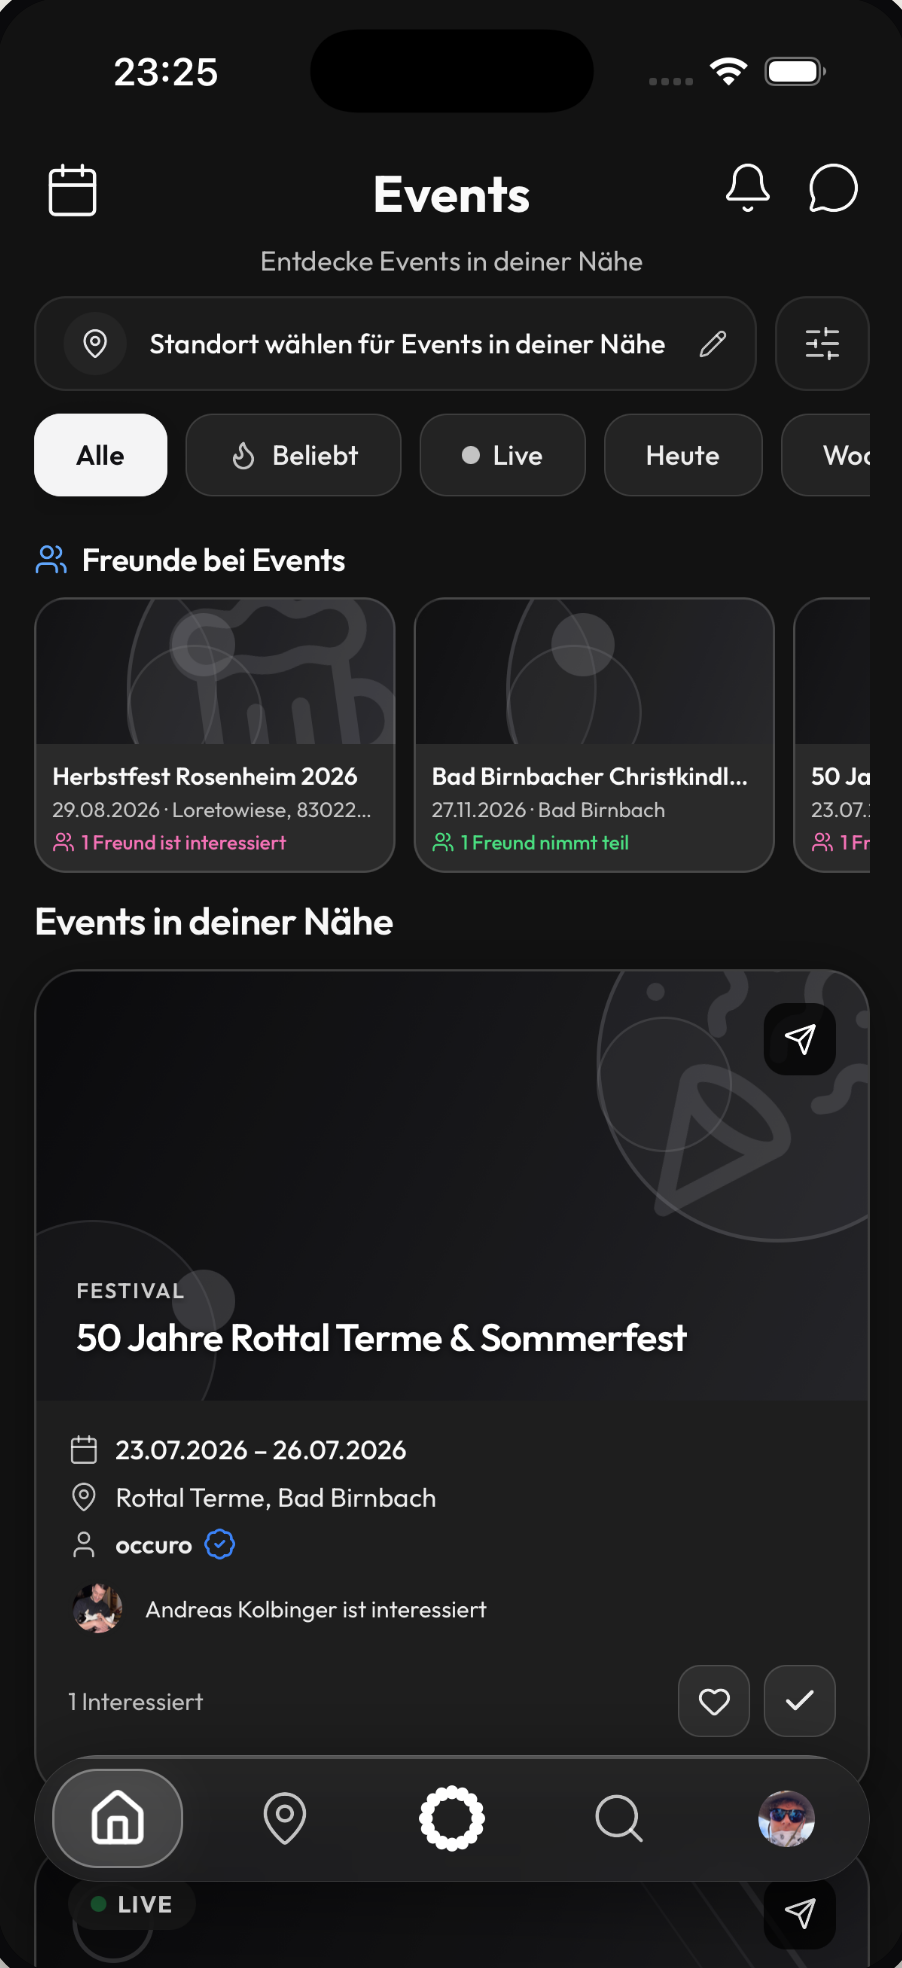
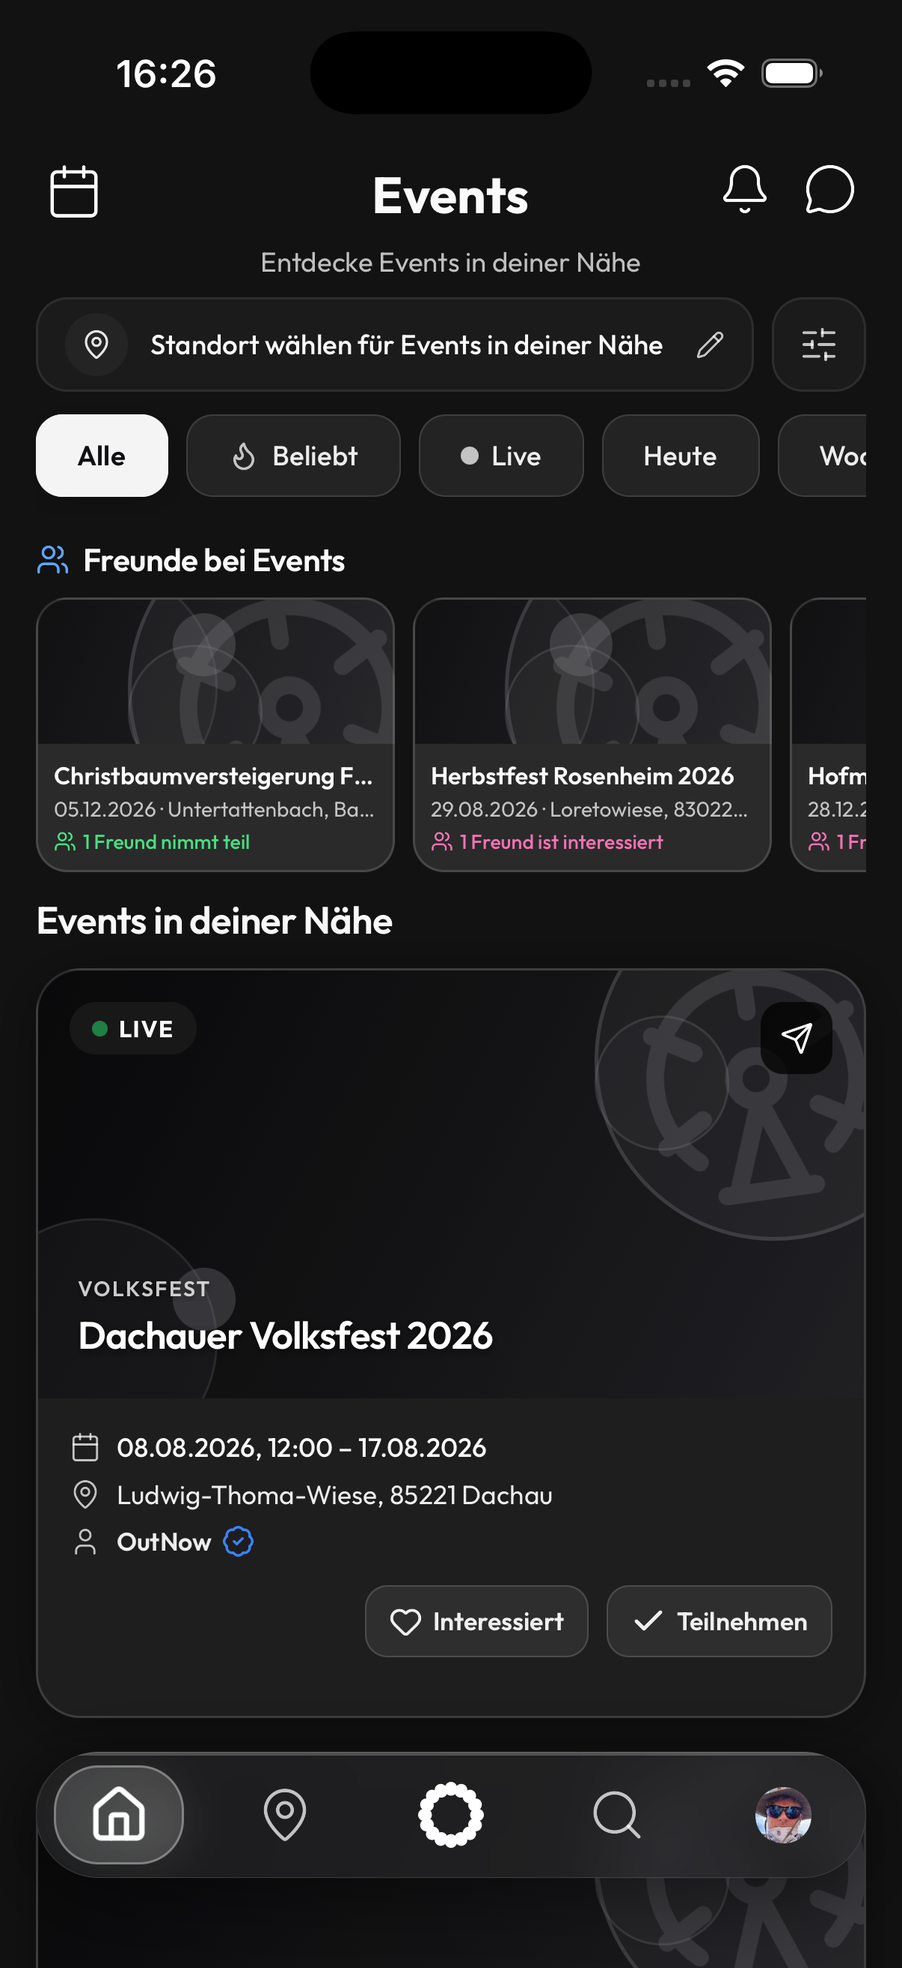
Neue Funktionen beschreiben und drei falsche Angaben korrigieren
Screenshots ausgetauscht — die alten stammten vom 09.08. und zeigten einen
Stand, den es nicht mehr gibt.

NEU BESCHRIEBEN: Live-Events auf der Karte und Freunde vor Ort, jeweils mit
eigenem Bildschirm. Dazu in den vorhandenen Kacheln ergaenzt, was ein
Abgleich mit dem App-Code als tatsaechlich vorhanden bestaetigt hat:
Veranstaltern folgen samt Benachrichtigung, gezieltes Antworten und Herz im
Chat, Galerie mit bis zu zehn Bildern, Event-Feed fuer Ankuendigungen.

Bewusst NICHT aufgenommen, obwohl der Code danach aussieht: Ticket-Scanner
(canScanTickets ist ein fest verdrahtetes false), Ticketpruefung durch
Veranstalter (vollstaendig ausprogrammiert, aber nirgends eingebunden), freies
Hochladen fremder Tickets (geht nur zu einem Event, das in OutNow existiert)
und Kommentare zum Event-Feed (Tabelle und Uebersetzungen vorhanden, im Code
nie verwendet). Eine Werbeaussage, die die App nicht einloest, waere
schlimmer als eine fehlende.

Entfernt: "sofort sichtbar fuer tausende Nutzer" — vor dem Start testen nur
Freunde.

ZWEI FEHLER IN DER SEITE selbst:

React-Key der Zeitleiste war t.month. Solange jeder Monat einmal vorkam, fiel
das nicht auf; der neue August-Eintrag waere mit dem vorhandenen kollidiert.
Jetzt Jahr, Monat und Titel.

Die Veranstalter-Kacheln stehen in einem Raster aus zwei bzw. drei Spalten.
Ein siebter Eintrag haette die letzte Reihe abbrechen lassen, deshalb ist der
Event-Feed in "Direkter Draht" eingearbeitet statt angehaengt.
[…]

diff --git a/src/app/page.tsx b/src/app/page.tsx
@@ -25,20 +25,20 @@ const fadeUp = {
    ═══════════════════════════════════════════════════════════ */
 
 const userFeatures: { icon: LucideIcon; title: string; desc: string }[] = [
-  { icon: Search, title: 'Entdecken', desc: 'Events in deiner Nähe — per Feed, Karte oder Suche. Filtere nach Kategorie, Genre und Zeitraum.' },
-  { icon: Users, title: 'Verbinden', desc: 'Sieh welche Freunde hingehen. Teile Events und erlebe sie zusammen.' },
+  { icon: Search, title: 'Entdecken', desc: 'Events in deiner Nähe — per Feed, Karte oder Suche. Folge Veranstaltern und erfahre, wenn sie etwas Neues planen.' },
+  { icon: Users, title: 'Verbinden', desc: 'Sieh welche Freunde hingehen — und wer gerade vor Ort ist, wenn sie ihren Standort teilen.' },
   { icon: CalendarPlus, title: 'Teilnehmen', desc: 'Interesse melden, bestätigen, Tickets sichern — alles mit einem Tap.' },
-  { icon: MessageCircle, title: 'Chatten', desc: 'Event-Chats und Direktnachrichten. Tausche dich aus, bevor und während des Events.' },
+  { icon: MessageCircle, title: 'Chatten', desc: 'Event-Chats und Direktnachrichten. Antworte gezielt auf einzelne Nachrichten, ein Doppeltipp setzt ein Herz.' },
   { icon: Ticket, title: 'Wallet & Kalender', desc: 'Digitale Tickets in deiner Wallet. Kalenderansicht mit Erinnerungen für alle Events.' },
   { icon: Gift, title: 'Gewinnspiele', desc: 'Nimm an Event-Gewinnspielen teil und gewinne Preise — direkt in der App.' },
 ];
 
 const orgFeatures: { icon: LucideIcon; title: string; desc: string }[] = [
-  { icon: Zap, title: 'In 60 Sekunden online', desc: 'Event erstellen war noch nie so schnell. Titel, Ort, Datum — sofort sichtbar für tausende Nutzer.' },
+  { icon: Zap, title: 'In 60 Sekunden online', desc: 'Titel, Ort, Datum — mehr braucht es nicht. Dazu ein Banner und bis zu zehn weitere Bilder als Galerie.' },
   { icon: TrendingUp, title: 'Live-Dashboard', desc: 'Follower, Interessenten, Bestätigungen — sieh in Echtzeit, wie dein Event performt.' },
   { icon: Megaphone, title: 'Organische Reichweite', desc: 'Jeder Interessent teilt dein Event im Feed seiner Freunde. Reichweite ohne Werbebudget.' },
   { icon: Gift, title: 'Gewinnspiele', desc: 'Aktiviere Gewinnspiele für dein Event und steigere die Teilnahme. Automatische Ziehung inklusive.' },
-  { icon: MessageCircle, title: 'Direkter Draht', desc: 'Event-Chat für Ankündigungen und Fragen. Erreiche deine Teilnehmer direkt — ohne Social Media.' },
+  { icon: MessageCircle, title: 'Direkter Draht', desc: 'Event-Chat für Fragen, Event-Feed für Ankündigungen als Text, Foto oder Link. Ohne Umweg über Social Media.' },
   { icon: ShieldCheck, title: 'Verifiziertes Profil', desc: 'Zeig deiner Community, dass du geprüft bist. Mehr Vertrauen = mehr Teilnehmer.' },
 ];
 
@@ -46,6 +46,8 @@ const userScreens = [
   { src: '/app-screenshots/events.png', title: 'Event Feed', desc: 'Events in deiner Nähe im Feed — mit Filtern für Beliebt, Live, Heute und Wochenende. Oben siehst du direkt, bei welchen Events deine Freunde dabei sind.' },
   { src: '/app-screenshots/event-detail.png', title: 'Event Details', desc: 'Alles zum Event auf einen Blick: Veranstalter, Start und Ende, Ort, Beschreibung. Mit einem Tap in den Kalender eintragen oder in Karten öffnen.' },
   { src: '/app-screenshots/event-karte.png', title: 'Event-Karte', desc: 'Finde Events auf der Karte statt in einer Liste. Tippe einen Pin an und du siehst Titel, Ort, Zeitraum und Kategorie sofort.' },
+  { src: '/app-screenshots/karte-live.png', title: 'Was gerade läuft', desc: 'Events, die in diesem Moment laufen, sind auf der Karte schwarz markiert und mit LIVE beschriftet. Stehen Freunde dort, siehst du ihre Gesichter direkt am Pin.' },
+  { src: '/app-screenshots/freunde-vor-ort.png', title: 'Freunde vor Ort', desc: 'Wer von deinen Freunden gerade bei einem Event ist, steht in den Event-Details. Dafür muss man den Live-Standort selbst freigeben — sonst zeigt OutNow niemanden an.' },
   { src: '/app-screenshots/entdecken-suche.png', title: 'Entdecken & Suche', desc: 'Suche nach Events, Personen und Veranstaltern. Darunter Vorschläge, die zu deinen Interessen passen.' },
   { src: '/app-screenshots/kalender.png', title: 'Kalender', desc: 'Deine Events im Monatsüberblick. Tage mit Events sind markiert, ein Tap zeigt dir, was an dem Tag ansteht.' },
 ];
@@ -62,6 +64,7 @@ const timeline = [
   { month: 'Apr', year: '2026', title: 'Gewinnspiele & Chat', desc: 'Event-Gewinnspiele, Live-Chat und Veranstalter-Dashboard.' },
   { month: 'Jul', year: '2026', title: 'Gastmodus & neues Design', desc: 'Erst umsehen, dann entscheiden — Events ansehen geht jetzt ohne Konto. Dazu ein durchgehend schwarz-weißes Design in App, Web-App und Website und ein spürbar schnellerer Start.' },
   { month: 'Aug', year: '2026', title: 'Verlässliche Links & Anmeldung', desc: 'Geteilte Event-Links öffnen direkt die App statt den Browser. Registrierung und E-Mail-Bestätigung laufen sauber durch.' },
+  { month: 'Aug', year: '2026', title: 'Live-Events & Freunde vor Ort', desc: 'Was gerade läuft, ist auf der Karte schwarz markiert und mit LIVE beschriftet. Teilen Freunde ihren Standort, siehst du am Pin und in den Event-Details, wer schon dort ist.' },
 ];
 
 /* ═══════════════════════════════════════════════════════════
@@ -182,7 +185,7 @@ export default function HomePage() {
             <div className="hidden md:block absolute top-10 left-0 right-0 h-px bg-gradient-to-r from-transparent via-line-strong to-transparent" />
             <div className="grid grid-cols-2 md:grid-cols-4 gap-3 sm:gap-4">
               {timeline.map((t, i) => (
-                <TimelineCard key={t.month} {...t} index={i} />
+                <TimelineCard key={`${t.year}-${t.month}-${t.title}`} {...t} index={i} />
               ))}
             </div>
           </div>

diff --git a/src/app/datenschutz/page.tsx b/src/app/datenschutz/page.tsx
@@ -138,7 +138,7 @@ export default function DatenschutzPage() {
               <li>Profildaten: bis zur Löschung deines Kontos</li>
               <li>Events: bis zur Löschung durch den Ersteller oder 12 Monate nach Ablauf</li>
               <li>Chat-Nachrichten: bis zur Löschung durch dich oder Konto-Löschung</li>
-              <li>Standortdaten: werden nicht dauerhaft gespeichert, nur für die aktuelle Sitzung</li>
+              <li>Standortdaten: nur solange &bdquo;Live-Standort teilen&ldquo; aktiv ist. Der Wert wird alle drei Minuten überschrieben und beim Abschalten, beim Abmelden sowie bei der Konto-Löschung gelöscht</li>
               <li>Push-Token: bis zum Widerruf oder zur Konto-Löschung</li>
             </ul>
           </section>
@@ -178,6 +178,8 @@ export default function DatenschutzPage() {
               <li>Bei Deaktivierung oder Abmeldung wird dein Standort <strong>automatisch gelöscht</strong></li>
               <li>Dein <strong>genauer Standort</strong> wird anderen Nutzern <strong>nie</strong> angezeigt — es wird nur geprüft ob du dich innerhalb von 500m eines laufenden Events befindest</li>
               <li>Nur bestätigte Freunde können sehen, dass du bei einem Event bist</li>
+              <li>Angezeigt wirst du nur, wenn du dem Event <strong>zugesagt</strong> hast — wer ohne Zusage vorbeikommt, taucht nicht auf</li>
+              <li>Der zuletzt bekannte Standort gilt noch <strong>bis zu zwei Stunden</strong> weiter, damit ein kurzes Schließen der App dich nicht sofort verschwinden lässt</li>
             </ul>
             <p>
               <strong>Rechtsgrundlage:</strong> Einwilligung (Art. 6 Abs. 1 lit. a DSGVO).
